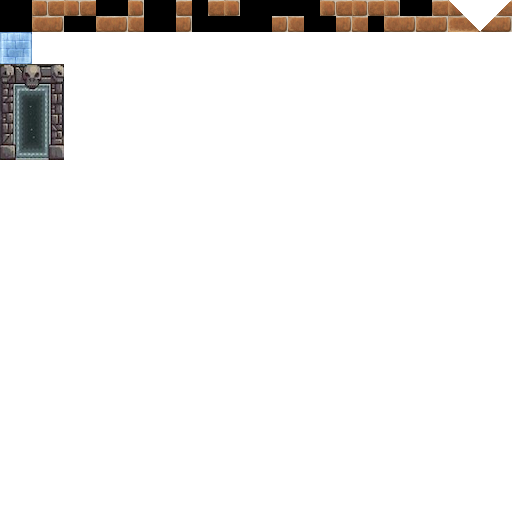
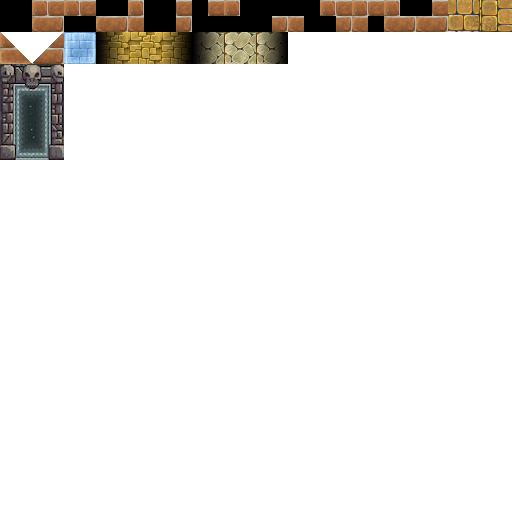
考虑到随机图块中也有spine，因此稍微优化一下固定块中的spine

Changed region(s): [[0.0, 0.0625, 0.5625, 0.125], [0.875, 0.0, 1.0, 0.0625]]

diff --git a/p3/assets/script/MapCtrlr.ts b/p3/assets/script/MapCtrlr.ts
@@ -34,6 +34,12 @@ class TriggerJson {
     id: number;
 }
 
+export class SpineJson {
+    x: number;
+    y: number;
+    id: number;
+}
+
 /** 场景属性，记录当前场景的一些数据 */
 export class SceneAttri {
     cardIndexs: number[];
@@ -75,7 +81,7 @@ class SceneJson {
     areaTypes: AreaType[];
     heros: TriggerJson[];
     gates: {[key: number]: {[key: number]: TriggerJson[];};};
-    spines: TriggerJson[][];
+    spines: SpineJson[][];
     attri: SceneAttri;
 }
 
@@ -109,7 +115,7 @@ class SceneTempJson {
     areaTypes: AreaType[];
     heros: TriggerJson[];
     gates: {[key: number]: {[key: number]: TriggerJson[];};};
-    spines: TriggerJson[][];
+    spines: SpineJson[][];
     attri: SceneAttri;
 }
 
@@ -187,6 +193,7 @@ export class MapCtrlr extends MyComponent {
         }
         this.sceneJsons[curScene] = this.homeMapJson.json;
         this.frames[curScene] = this.homeFrame;
+
         return callNext();
     }
 
@@ -483,15 +490,13 @@ export class MapCtrlr extends MyComponent {
         };
     }
 
-    getSpineInfo(areaIndex: number): {x: number, y: number, spineId: number}[] {
+    getSpineInfo(areaIndex: number): SpineJson[] {
         let curScene = this.gameCtrlr.getCurScene();
         let realAreaIndex = areaIndex - 1;
-        let spines = this.sceneJsons[curScene].spines[realAreaIndex];
-        let info: {x: number, y: number, spineId: number}[] = [];
-        let tileNumHeight = this.getAreaData(areaIndex).h;
+        let spines: SpineJson[] = this.sceneJsons[curScene].spines[realAreaIndex];
+        let info: SpineJson[] = [];
         for (const spine of spines) {
-            let pos = this.terrainCtrlr.getPosFromTilePos(spine.x, spine.y, tileNumHeight);
-            info.push({x: pos.x, y: pos.y, spineId: spine.id});
+            info.push(spine);
         }
         return info;
     }
@@ -523,8 +528,6 @@ export class MapCtrlr extends MyComponent {
         let usingGroundPoss: {pos: cc.Vec2, t: number}[] = [];
         let usingStates = {};
 
-        let tileNumHeight = this.getAreaData(areaIndex).h;
-
         do {
             let k = Math.floor(Math.random() * len);
             let groundX = areaInfo.getGroundX(k);
@@ -533,8 +536,8 @@ export class MapCtrlr extends MyComponent {
             let stKey = groundX * 1000 + groundY;
             let state = usingStates[stKey];
 
-            if (!state) {
-                let pos = this.terrainCtrlr.getPosFromTilePos(groundX, groundY - 1, tileNumHeight);
+            if (!state) { // lly todo ground都在c层生成，所以这里的逻辑后面就不要了
+                let pos = cc.v2(0, 0) //this.terrainCtrlr.getPosFromTilePos(groundX, groundY - 1, tileNumHeight);
                 usingGroundPoss.push({pos: pos, t: areaInfo.getGroundType(k)});
                 usingStates[stKey] = 1;
             } else {

diff --git a/p3/assets/script/GameCtrlr.ts b/p3/assets/script/GameCtrlr.ts
@@ -157,8 +157,7 @@ export default class GameCtrlr extends cc.Component {
 
     enterSideGate(gateGid: number, lastHeroPos: cc.Vec2) {
         let {thisX, thisY, otherArea, otherX, otherY} = this.mapCtrlr.getGatePos(gateGid);
-        let lastGatePos = this.terrainCtrlr.getPosFromTilePos(thisX, thisY);
-        let diff = cc.pSub(lastHeroPos, lastGatePos);
+        let diff = cc.pSub(lastHeroPos, cc.v2(thisX, thisY));
         this._changeArea(otherArea, otherX, otherY, diff.x, diff.y);
     }
 
@@ -176,8 +175,7 @@ export default class GameCtrlr extends cc.Component {
         this.potCtrlr.changeArea();
         this.itemCtrlr.clear();
 
-        let heroPos = this.terrainCtrlr.getPosFromTilePos(x, y);
-        this.hero.movableObj.blink(heroPos.x + offsetX, heroPos.y + offsetY);
+        this.hero.movableObj.blink(x + offsetX, y + offsetY);
 
         this.hero.onChangeArea();
     }

diff --git a/p3/assets/script/TerrainCtrlr.ts b/p3/assets/script/TerrainCtrlr.ts
@@ -93,14 +93,6 @@ export class TerrainCtrlr extends MyComponent {
     }
 
     /**
-     * 得到一个块的最下的中点
-     */
-    getPosFromTilePos(x: number, y: number, tileNumHeight: number = null): cc.Vec2 {
-        let h = tileNumHeight ? tileNumHeight * TileLength : this.terrainSize.height
-        return cc.v2(x * TileLength + TileLength * 0.5, h - y * TileLength - TileLength);
-    }
-
-    /**
      * 根据位置，获取图块索引值
      */
     _getTileIndex(x: number, y: number): {tileX: number, tileY: number} {
@@ -134,8 +126,8 @@ export class TerrainCtrlr extends MyComponent {
 
     _getSlopeDir(gid: number): number {
         switch (gid) {
-            case 15: return 1;
-            case 16: return -1;
+            case 17: return 1;
+            case 18: return -1;
             default: return null;
         }
     }

diff --git a/p3/assets/script/SpineCtrlr.ts b/p3/assets/script/SpineCtrlr.ts
@@ -7,6 +7,7 @@ const {ccclass, property} = cc._decorator;
 import MyComponent from "./MyComponent";
 import GameCtrlr from "./GameCtrlr";
 import Spine from "./Spine";
+import {SpineJson} from "./MapCtrlr";
 
 class SpineData {
     pos: cc.Vec2;
@@ -66,10 +67,10 @@ export default class SpineCtrlr extends MyComponent {
         return "spine";
     }
 
-    setData(areaIndex: number, infos: {x: number, y: number, spineId: number}[]) {
+    setData(areaIndex: number, infos: SpineJson[]) {
         let datas: SpineData[] = [];
         for (const info of infos) {
-            let name = this.getSpineNameFromId(info.spineId);
+            let name = this.getSpineNameFromId(info.id);
             datas.push(new SpineData(cc.v2(info.x, info.y), name));
         }
         this.datas[areaIndex] = datas;

diff --git a/p3/assets/script_map/MapCheck.js b/p3/assets/script_map/MapCheck.js
@@ -1,1 +1,1 @@
-module.exports = [237288501, 78899095];
+module.exports = [318149654, 78906016];

diff --git a/p3/raw/createMapJson.py b/p3/raw/createMapJson.py
@@ -101,14 +101,18 @@ def parseTe(t):
     else:
         return t
 
+# 得到一个块的最下的中点
+TileLength = 32
+def getPX(x):
+    return int(x * TileLength + TileLength * 0.5)
+def getPY(y, h):
+    return int(h - y - 1) * TileLength
+
 # 解析标记
 def parseNo(t, lineNum, colNum, w, h, area):
 
     global sceneHeroData
-    global sceneSpineData
-
     global noEnemyPosData
-    
 
     if t == tileNoEnemy:
         noEnemyPosData.append(colNum * 1000 + lineNum)
@@ -117,8 +121,8 @@ def parseNo(t, lineNum, colNum, w, h, area):
         #hero pos
 
         thisHeroData = {}
-        thisHeroData["x"] = colNum
-        thisHeroData["y"] = lineNum
+        thisHeroData["x"] = getPX(colNum)
+        thisHeroData["y"] = getPY(lineNum, h)
         thisHeroData["area"] = area
         thisHeroData["id"] = t
         sceneHeroData.append(thisHeroData)
@@ -126,6 +130,7 @@ def parseNo(t, lineNum, colNum, w, h, area):
 def parseCo(t, lineNum, colNum, w, h, area):
     global sceneDoorData
     global doorIndexs
+    global sceneSpineData
 
     keyDight = 100
 
@@ -155,8 +160,8 @@ def parseCo(t, lineNum, colNum, w, h, area):
         newT = t * 100000 + orient * 10000 + doorIndexs[t] * 1000 + key * keyDight + 0 # 门都是可通过的
 
         thisDoorData = {}
-        thisDoorData["x"] = colNum
-        thisDoorData["y"] = lineNum
+        thisDoorData["x"] = getPX(colNum)
+        thisDoorData["y"] = getPY(lineNum, h)
         thisDoorData["area"] = area
         thisDoorData["id"] = newT
 
@@ -194,9 +199,8 @@ def parseCo(t, lineNum, colNum, w, h, area):
         if t == tileSpine:
             # spine
             thisSpineData = {}
-            thisSpineData["x"] = colNum
-            thisSpineData["y"] = lineNum
-            thisSpineData["area"] = area
+            thisSpineData["x"] = getPX(colNum)
+            thisSpineData["y"] = getPY(lineNum, h)
             thisSpineData["id"] = t - tileSpineFrom
 
             if not sceneSpineData[area]:

diff --git a/p3/raw/createEleJson.py b/p3/raw/createEleJson.py
@@ -102,12 +102,26 @@ def getDataFromTileJson(jsonStr, key):
 
     return tilelist
 
+def getSpine(noList):
+    spines = []
+    for line in noList:
+        for tile in line:
+            if spineFrom <= tile and tile <= spineTo:
+                if not tile in spines:
+                    spines.append(tile)
+
+    return spines
+
+
 def parseData():
 
     for eleData in eleDatas:
         # 从json string提取tile数据
         coList = getDataFromTileJson(eleData.d, "collision") # 碰撞
         noList = getDataFromTileJson(eleData.d, "notation") # 标记
+
+        spines = getSpine(noList)
+
 
         base = {}
         base["tW"] = eleData.w
